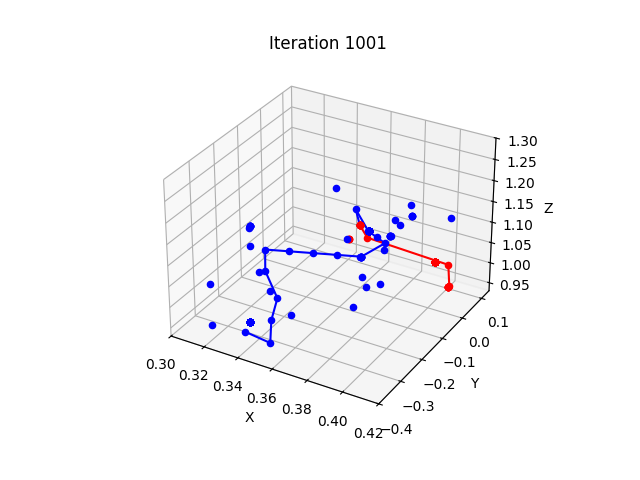
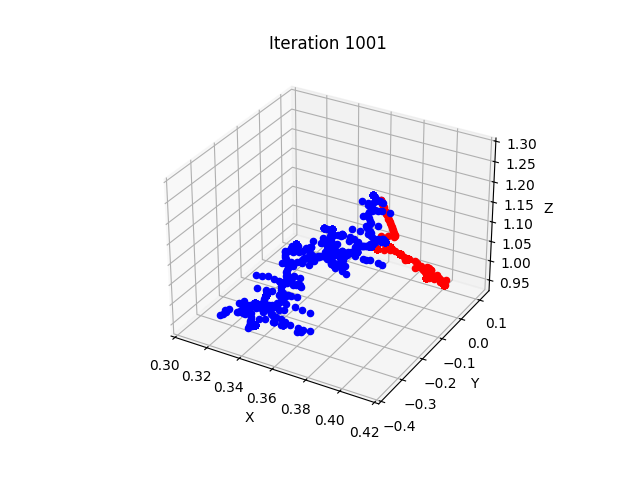
tests

diff --git a/rrt.py b/rrt.py
@@ -22,11 +22,7 @@ from inverse_geometry import computeqgrasppose
 import matplotlib.pyplot as plt
 from plotting import plot_trajectory_in_3D
 
-
 def generate_random_cube_placement(robot, cube, q_current):
-    '''
-    Generate a random cube placement within the constraints, and check for collisions
-    '''
     #return a random configuration
     x_min, x_max = 0.33, 0.4  # X-axis limits could be 0.33, 0.4
     y_min, y_max = -0.3, 0.11  # Y-axis limits could be -0.3, 0.11
@@ -44,22 +40,20 @@ def generate_random_cube_placement(robot, cube, q_current):
         
         setcubeplacement(robot, cube, placement)
 
-        return q_current, placement # TODO if left this way remove q_current from the return from arguments
+        # Get robot configuration for the cube placement and check for collisions using computegrasppose
+        q_rand = q_current.copy()
 
-    #     # Get robot configuration for the cube placement and check for collisions using computegrasppose
-    #     q_rand = q_current.copy()
+        q_rand, not_in_collision = computeqgrasppose(robot, q_rand, cube, placement)
 
-    #     q_rand, not_in_collision = computeqgrasppose(robot, q_rand, cube, placement)
-
-    #     if not_in_collision:
-    #         return q_rand, placement
+        if not_in_collision:
+            return q_rand, placement
         
-    #     counter += 1
-    #     if counter > 100:
-    #         break 
+        counter += 1
+        if counter > 100:
+            break 
 
-    # print("Error: Could not find a valid random configuration in 100 iterations")
-    # return None
+    print("Error: Could not find a valid random configuration")
+    return None
 
 def distance(c1,c2):
     '''
@@ -85,8 +79,8 @@ def nearest_vertex(G, c_rand):
 def add_edge_and_vertex(G, parent, q, c):
     G += [(parent, q, c)]
 
-def lerp(p0, p1, t):
-    return p0*(1-t) + p1*t
+def lerp(q0, q1, t):
+    return q0*(1-t) + q1*t
 
 def lerp_cube(cube_0, cube_1, t):
     new_placement = lerp(cube_0.translation, cube_1.translation, t)
@@ -108,15 +102,16 @@ def new_placement(robot, cube, q_near, c_near, c_rand, discretisationsteps, delt
         c = lerp_cube(c_near, c_end, i*dt)
         q_end, valid = computeqgrasppose(robot, q_prev, cube, c)
         if not valid:
-            return q_prev, c_prev
+            return q_prev, c_prev # lerp_cube(c_near, c_end, (i-1)*dt)
         q_prev = q_end
         c_prev = c
-    return q_end, c_end
 
-def valid_edge_to_goal(robot, cube, q_new, c_new, c_goal, discretisationsteps, delta_q):
-    return norm(c_goal.translation - new_placement(robot, cube, q_new, c_new, c_goal, discretisationsteps, delta_q)[1].translation) < EPSILON
+    return q_end, c
 
-def RRT(robot, cube, q_init, q_goal, cubeplacementq0, cubeplacementqgoal, k=5000, delta_q=0.05):
+def valid_edge_to_goal(robot, cube, q_new, c_new, c_goal, discretisationsteps, delta_q=0.01):
+    return norm(c_goal.translation - new_placement(robot, cube, q_new, c_new, c_goal, discretisationsteps, delta_q)[1].translation) < delta_q
+
+def RRT(robot, cube, q_init, q_goal, k=1000, delta_q=0.01, cubeplacementq0=None, cubeplacementqgoal=None):
 
     discretisationsteps_newconf = 200
     discretisationsteps_validedge = 200
@@ -135,7 +130,6 @@ def RRT(robot, cube, q_init, q_goal, cubeplacementq0, cubeplacementqgoal, k=5000
         q_near, c_near = G[c_near_idx][1], G[c_near_idx][2]
         q_new, c_new = new_placement(robot, cube, q_near, c_near, c_rand, discretisationsteps_newconf, delta_q)
         add_edge_and_vertex(G, c_near_idx, q_new, c_new)
-
         if valid_edge_to_goal(robot, cube, q_new, c_new, c_goal, discretisationsteps_validedge, delta_q):
             print("Path found")
             add_edge_and_vertex(G, len(G)-1, q_goal, c_goal)
@@ -156,27 +150,20 @@ def get_path(G):
 
 #returns a collision free path from qinit to qgoal under grasping constraints
 #the path is expressed as a list of configurations
-def computepath(robot, cube, qinit, qgoal, cubeplacementq0, cubeplacementqgoal, k=5000, delta_q=0.05):
+def computepath(robot, cube, qinit, qgoal, cubeplacementq0, cubeplacementqgoal, k=5000, delta_q=0.01):
     # Your existing RRT and path planning logic
     # Make sure to use the passed `robot` and `cube` variables
-    G, pathfound, i = RRT(robot, cube, qinit, qgoal, cubeplacementq0, cubeplacementqgoal, k, delta_q)
+    G, pathfound, i = RRT(robot, cube, qinit, qgoal, k, delta_q, cubeplacementq0, cubeplacementqgoal)
     if not pathfound:
         return None, G, i
 
     path = get_path(G)
-
     return path, G, i
 
 
 def displaypath(robot,path,dt,viz):
     if path is None:
         return
-
-    # setcubeplacement(robot, cube, CUBE_PLACEMENT)
-    # for q in path:
-    #     viz.display(q)
-    #     time.sleep(dt)
-
     for q, c in path:
         setcubeplacement(robot, cube, c)
         viz.display(q)
@@ -195,7 +182,7 @@ if __name__ == "__main__":
     if not(successinit and successend):
         print ("error: invalid initial or end configuration")
     
-    path, G = computepath(robot, cube, q0, qe, CUBE_PLACEMENT, CUBE_PLACEMENT_TARGET)
+    path, G = computepath(robot, cube, q0,qe,CUBE_PLACEMENT, CUBE_PLACEMENT_TARGET, k=5000, delta_q=0.05)
 
     input("Press Enter to display the path")
     

diff --git a/path_rrt_connect.py b/path_rrt_connect.py
@@ -135,7 +135,7 @@ def new_placement(robot, cube, q_near, c_near, c_rand, discretisationsteps, delt
         c_prev = c
     return q_end, c_end, outcome
 
-def extend(G, q_rand, c_rand, discretisationsteps, delta_q):
+def extend(robot, cube, G, q_rand, c_rand, discretisationsteps, delta_q):
     c_near_idx = nearest_vertex(G, c_rand)
     q_near, c_near = G[c_near_idx][1], G[c_near_idx][2]
     # setcubeplacement(robot, cube, c_rand)
@@ -156,13 +156,13 @@ def extend(G, q_rand, c_rand, discretisationsteps, delta_q):
         
     return q_new, c_new, outcome
 
-def connect(G, q_rand, c_new, discretisationsteps, delta_q=0.01):
+def connect(robot, cube, G, q_rand, c_new, discretisationsteps, delta_q=0.01):
     '''
     Connects a new configuration c_new to the graph G by finding the nearest vertex and adding an edge.
     '''
     while True:
         # print("Running extend from connect")
-        _, _, outcome = extend(G, q_rand, c_new, discretisationsteps, delta_q)
+        _, _, outcome = extend(robot, cube, G, q_rand, c_new, discretisationsteps, delta_q)
         if outcome != ADVANCED:
             break
     return outcome == REACHED
@@ -185,32 +185,32 @@ def RRT_CONNECT(robot, cube, q_init, q_goal, cubeplacementq0, cubeplacementqgoal
     G_end = [(None, q_goal, c_goal)]
 
     for i in range(0, k, 2):
-        print("Iteration", i)
+        # print("Iteration", i)
 
         q_rand, c_rand = generate_random_cube_placement(robot, cube, q_init)
-        q_new, c_new, _ = extend(G_start, q_rand, c_rand, discretisationsteps_newconf, delta_q)
+        q_new, c_new, _ = extend(robot, cube, G_start, q_rand, c_rand, discretisationsteps_newconf, delta_q)
 
-        if connect(G_end, q_new, c_new, discretisationsteps_newconf, delta_q):
+        if connect(robot, cube, G_end, q_new, c_new, discretisationsteps_newconf, delta_q):
             print("Path found")
-            return G_start, G_end, True
+            return G_start, G_end, True, i
         
         # plot_connected_graphs(G_start, G_end, i)
         
-        print("Iteration", i+1)
+        # print("Iteration", i+1)
 
         q_rand, c_rand = generate_random_cube_placement(robot, cube, q_goal)
-        q_new, c_new, _ = extend(G_end, q_rand, c_rand, discretisationsteps_newconf, delta_q)
+        q_new, c_new, _ = extend(robot, cube, G_end, q_rand, c_rand, discretisationsteps_newconf, delta_q)
 
-        if connect(G_start, q_new, c_new, discretisationsteps_newconf, delta_q):
+        if connect(robot, cube, G_start, q_new, c_new, discretisationsteps_newconf, delta_q):
             print("Path found")
-            return G_start, G_end, True
+            return G_start, G_end, True, i
         
         # plot_connected_graphs(G_start, G_end, i+1)
         
 
     print("Path not found")
 
-    return G_start, G_end, False
+    return G_start, G_end, False, k
 
 def get_path(G):
     path = []
@@ -287,8 +287,8 @@ def plot_connected_graphs(G1, G2, index=0):
 def computepath(robot, cube, qinit, qgoal, cubeplacementq0, cubeplacementqgoal, k=5000, delta_q=0.05):
     # Your existing RRT and path planning logic
     # Make sure to use the passed `robot` and `cube` variables
-    G1, G2, pathfound = RRT_CONNECT(robot, cube, qinit, qgoal, cubeplacementq0, cubeplacementqgoal, k, delta_q)
-    plot_connected_graphs(G1, G2, index=1001)
+    G1, G2, pathfound, i = RRT_CONNECT(robot, cube, qinit, qgoal, cubeplacementq0, cubeplacementqgoal, k, delta_q)
+    # plot_connected_graphs(G1, G2, index=1001)
     
     if not pathfound:
         return None, G1, G2
@@ -300,7 +300,8 @@ def computepath(robot, cube, qinit, qgoal, cubeplacementq0, cubeplacementqgoal, 
 
     path = path1 + path2[::-1]
 
-    return path#, G # TODO path should just be the list of configurations.
+    # return path#, G # TODO path should just be the list of configurations.
+    return path, G1, i
 
 
 def displaypath(robot,path,dt,viz):

diff --git a/inverse_geometry.py b/inverse_geometry.py
@@ -15,7 +15,28 @@ from config import CUBE_PLACEMENT, CUBE_PLACEMENT_TARGET
 
 from tools import setcubeplacement
 
-def computeqgrasppose(robot, qcurrent, cube, cubetarget, viz=None):
+def generate_random_cube_placement():
+    '''
+    Generate a random cube placement within the constraints, and check for collisions
+    '''
+    # set the limits for the random cube placement
+    x_min, x_max = 0.3, 0.42  # X-axis limits could be 0.33, 0.4
+    y_min, y_max = -0.4, 0.14  # Y-axis limits could be -0.3, 0.11
+    z_min, z_max = 0.93, 1.3  # Z-axis limits (keeping the cube above the obstacle)
+
+    counter = 0
+
+    while True:
+        # sample a random cube placement uniformly within the constraints
+        x = np.random.uniform(x_min, x_max)
+        y = np.random.uniform(y_min, y_max)
+        z = np.random.uniform(z_min, z_max)
+
+        placement = pin.SE3(rotate('z', 0), np.array([x, y, z]))
+
+        return placement
+
+def computeqgrasppose(robot, qcurrent, cube, cubetarget, viz=None, DT = 1e-1):
     '''Return a collision free configuration grasping a cube at a specific location and a success flag'''
     
     # locate the cube at the desired position
@@ -24,7 +45,6 @@ def computeqgrasppose(robot, qcurrent, cube, cubetarget, viz=None):
     q = qcurrent.copy()
 
     # set DT for the integration
-    DT = 1e-1
 
     
     counter = 0
@@ -72,9 +92,9 @@ def computeqgrasppose(robot, qcurrent, cube, cubetarget, viz=None):
         # throw an error if the algorithm did not converge
         if counter == 10000:
             print("Error: Could not find a valid grasping configuration in 10000 iterations")
-            return None, False
+            return None, False, counter
 
-    return q, not collision(robot, q)
+    return q, not collision(robot, q), counter
             
 if __name__ == "__main__":
     from tools import setupwithmeshcat
@@ -86,9 +106,57 @@ if __name__ == "__main__":
     viz.display(random_q)
     import time
     time.sleep(3)
+
+    # create an array of 20 random configuration using the random_q and store them into an array
+    rand_configs = []
+
+    for i in range(1000):
+        random_q = np.random.rand(robot.model.nq)
+        rand_configs.append(random_q)
     
     q = robot.q0.copy()
-    q0,successinit = computeqgrasppose(robot, q, cube, CUBE_PLACEMENT, viz)
-    qe,successend = computeqgrasppose(robot, q, cube, CUBE_PLACEMENT_TARGET,  viz)
+    # run computeqgrasppose for successinit for 10 interval values between 0.001 and 1.0 50 times each and get the aferage number of iterations and standard deviation
+
+    std = {
+        "0.001": 0,
+        "0.01": 0,
+        "0.02": 0,
+        "0.05": 0,
+        "0.1": 0,
+        "0.2": 0,
+        "0.5": 0,
+        "1.0": 0,
+    }
+
+    avg = {
+        "0.001": 0,
+        "0.01": 0,
+        "0.02": 0,
+        "0.05": 0,
+        "0.1": 0,
+        "0.2": 0,
+        "0.5": 0,
+        "1.0": 0,
+    }
+
+    for delta_q in [0.5, 1.0]:
+        counters = []  # List to store counter values for each delta_q
+        for i in range(len(rand_configs)):
+            print(i)
+            q0, successinit, counter = computeqgrasppose(robot, rand_configs[i], cube, CUBE_PLACEMENT, viz, DT=delta_q)
+            counters.append(counter)  # Store each counter value
+
+        # Calculate mean and standard deviation using numpy
+        print("Delta_q: ", delta_q)
+        print("Counters: ", counters)
+        avg[str(delta_q)] = np.mean(counters)
+        std[str(delta_q)] = np.std(counters)
+
+
+    print(avg)
+    print(std)
+    
+    q0,successinit, counter = computeqgrasppose(robot, q, cube, CUBE_PLACEMENT, viz, DT = 0.001)
+    qe,successend = computeqgrasppose(robot, q, cube, CUBE_PLACEMENT_TARGET,  viz, DT = 0.001)
 
     updatevisuals(viz, robot, cube, qe)

diff --git a/path_analysis.py b/path_analysis.py
@@ -1,0 +1,62 @@
+import path
+import rrt
+import path_rrt_connect
+
+from tools import setupwithmeshcat
+
+from config import CUBE_PLACEMENT, CUBE_PLACEMENT_TARGET
+
+from inverse_geometry import computeqgrasppose
+
+if __name__ == "__main__":
+
+    # run the computepath from rrt, path, path_rrt_connect with different values of delta_q starting from 0.005, 0.01, 0.05, 0.1, 0.2
+    
+    robot, cube, viz = setupwithmeshcat()
+
+    q = robot.q0.copy()
+    
+    q = robot.q0.copy()
+    q0,successinit = computeqgrasppose(robot, q, cube, CUBE_PLACEMENT, viz=None)
+    qe,successend = computeqgrasppose(robot, q, cube, CUBE_PLACEMENT_TARGET,  viz=None)
+
+    if not(successinit and successend):
+        print ("error: invalid initial or end configuration")
+
+    # 0.005, 0.01, 
+    # take the avearege of itereations for 20 runs
+
+    for delta_q in [0.05, 0.1, 0.2]:
+        avg = {
+            "rrt_connect": 0,
+            "rrt": 0,
+            "rrt_star": 0
+        }
+        for i in range(20):
+            print(f"delta_q = {delta_q}")
+            # rrt connect
+            pathFound, G, i = path_rrt_connect.computepath(robot, cube, q0, qe, CUBE_PLACEMENT, CUBE_PLACEMENT_TARGET, k=20000, delta_q=delta_q)
+            print(i)
+            avg["rrt_connect"] += i
+            # rrt
+            pathFound, G, i = path.computepath(robot, cube, q0, qe, CUBE_PLACEMENT, CUBE_PLACEMENT_TARGET, k=20000, delta_q=delta_q)
+            avg["rrt"] += i
+            print(i)
+            # rrt *
+            pathFound, G, i = rrt.computepath(robot, cube, q0, qe, CUBE_PLACEMENT, CUBE_PLACEMENT_TARGET, k=20000, delta_q=delta_q)
+            avg["rrt_star"] += i
+            print(i)
+        avg["rrt_connect"] /= 20
+        avg["rrt"] /= 20
+        avg["rrt_star"] /= 20
+        print(f"avg = {avg}")
+
+    
+
+
+
+# 0.005: 316, 5000, 5000
+# 0.01: 1772, 5000, 1114
+# 0.05: 312, 1910, 563
+# 0.1: 312, 2065, 144
+# 0.2: 62, 5000, 162
